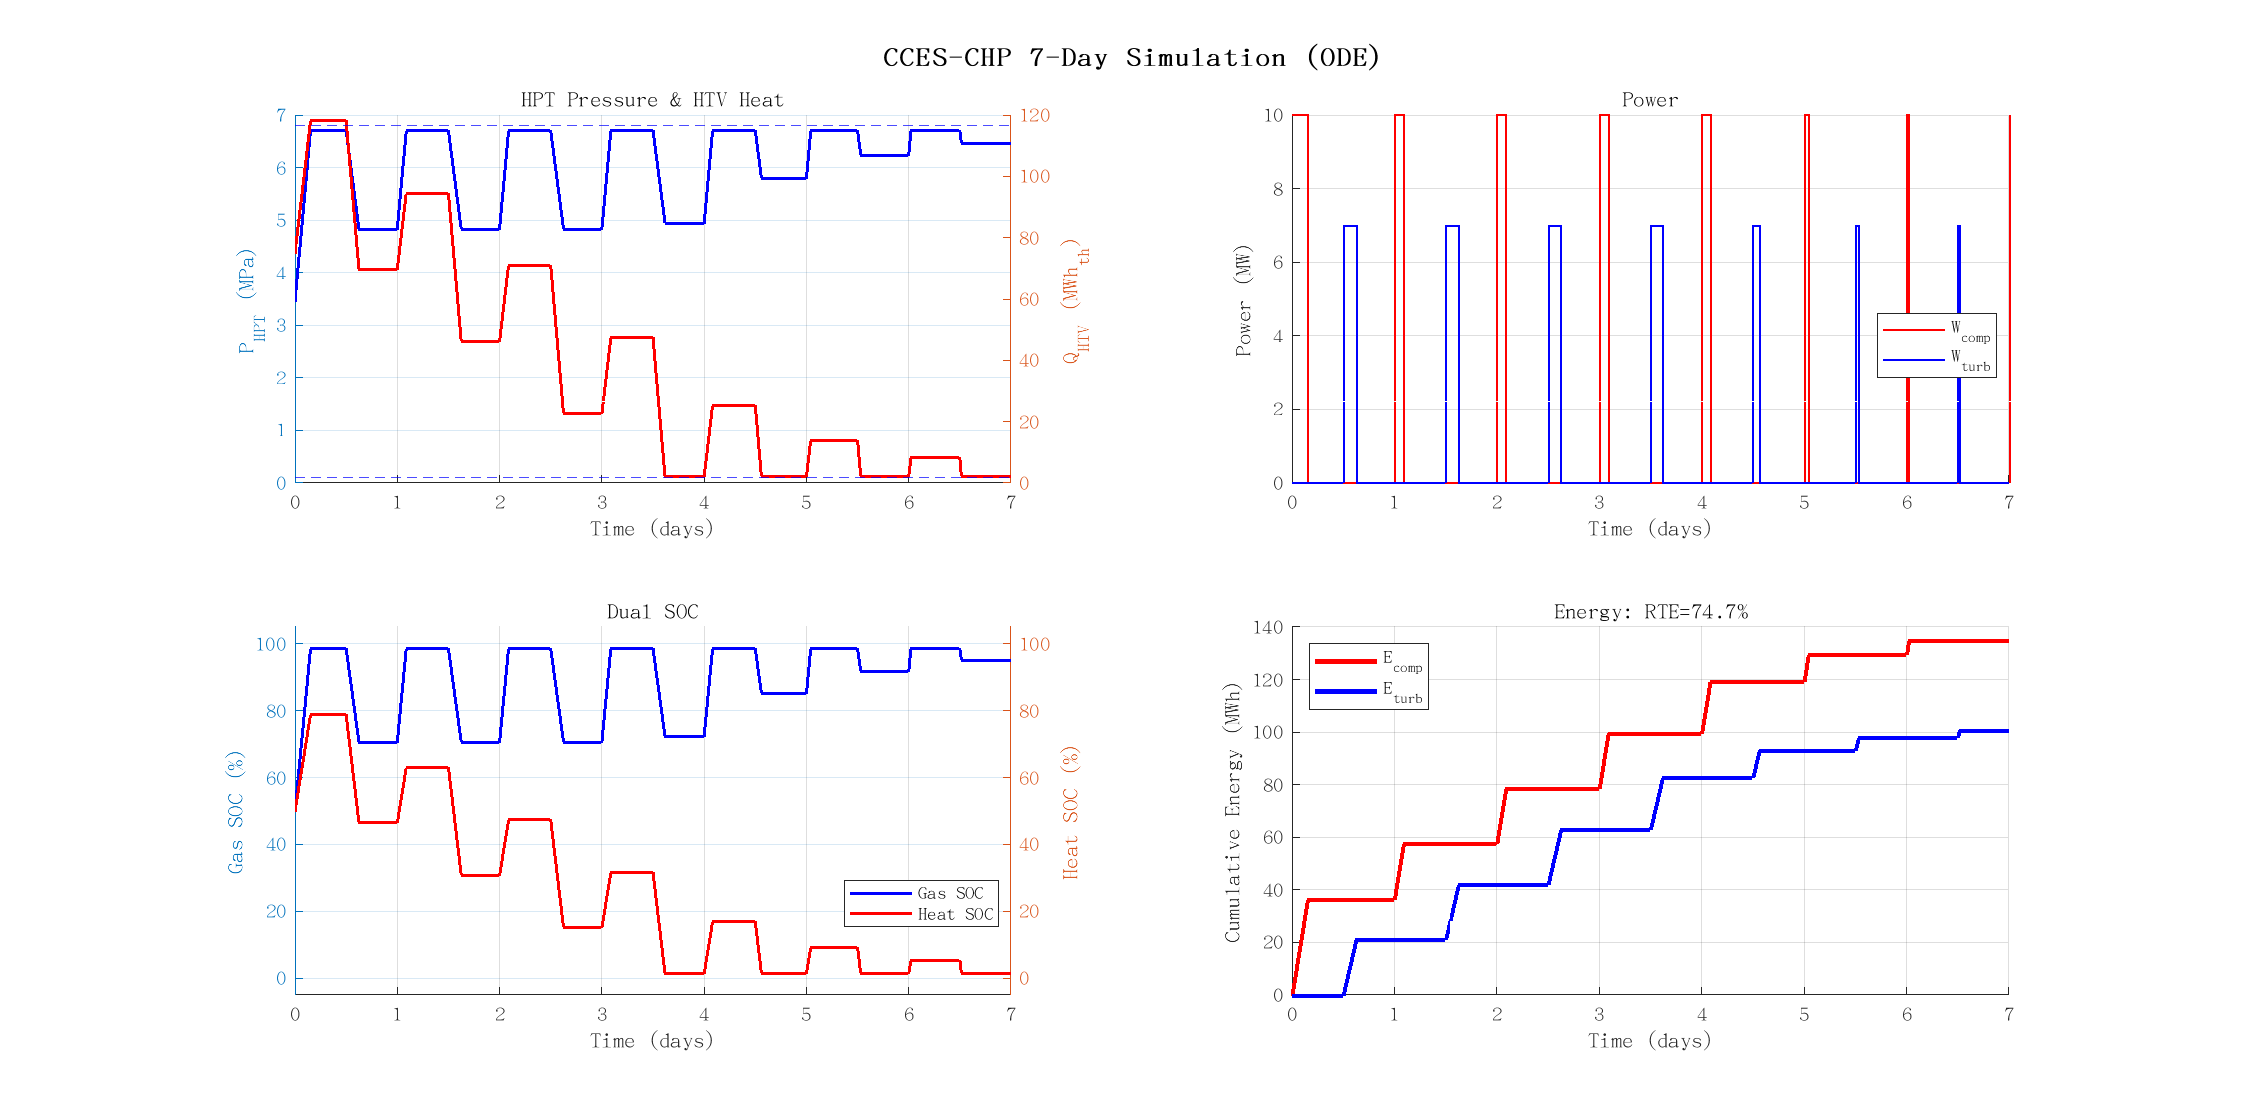
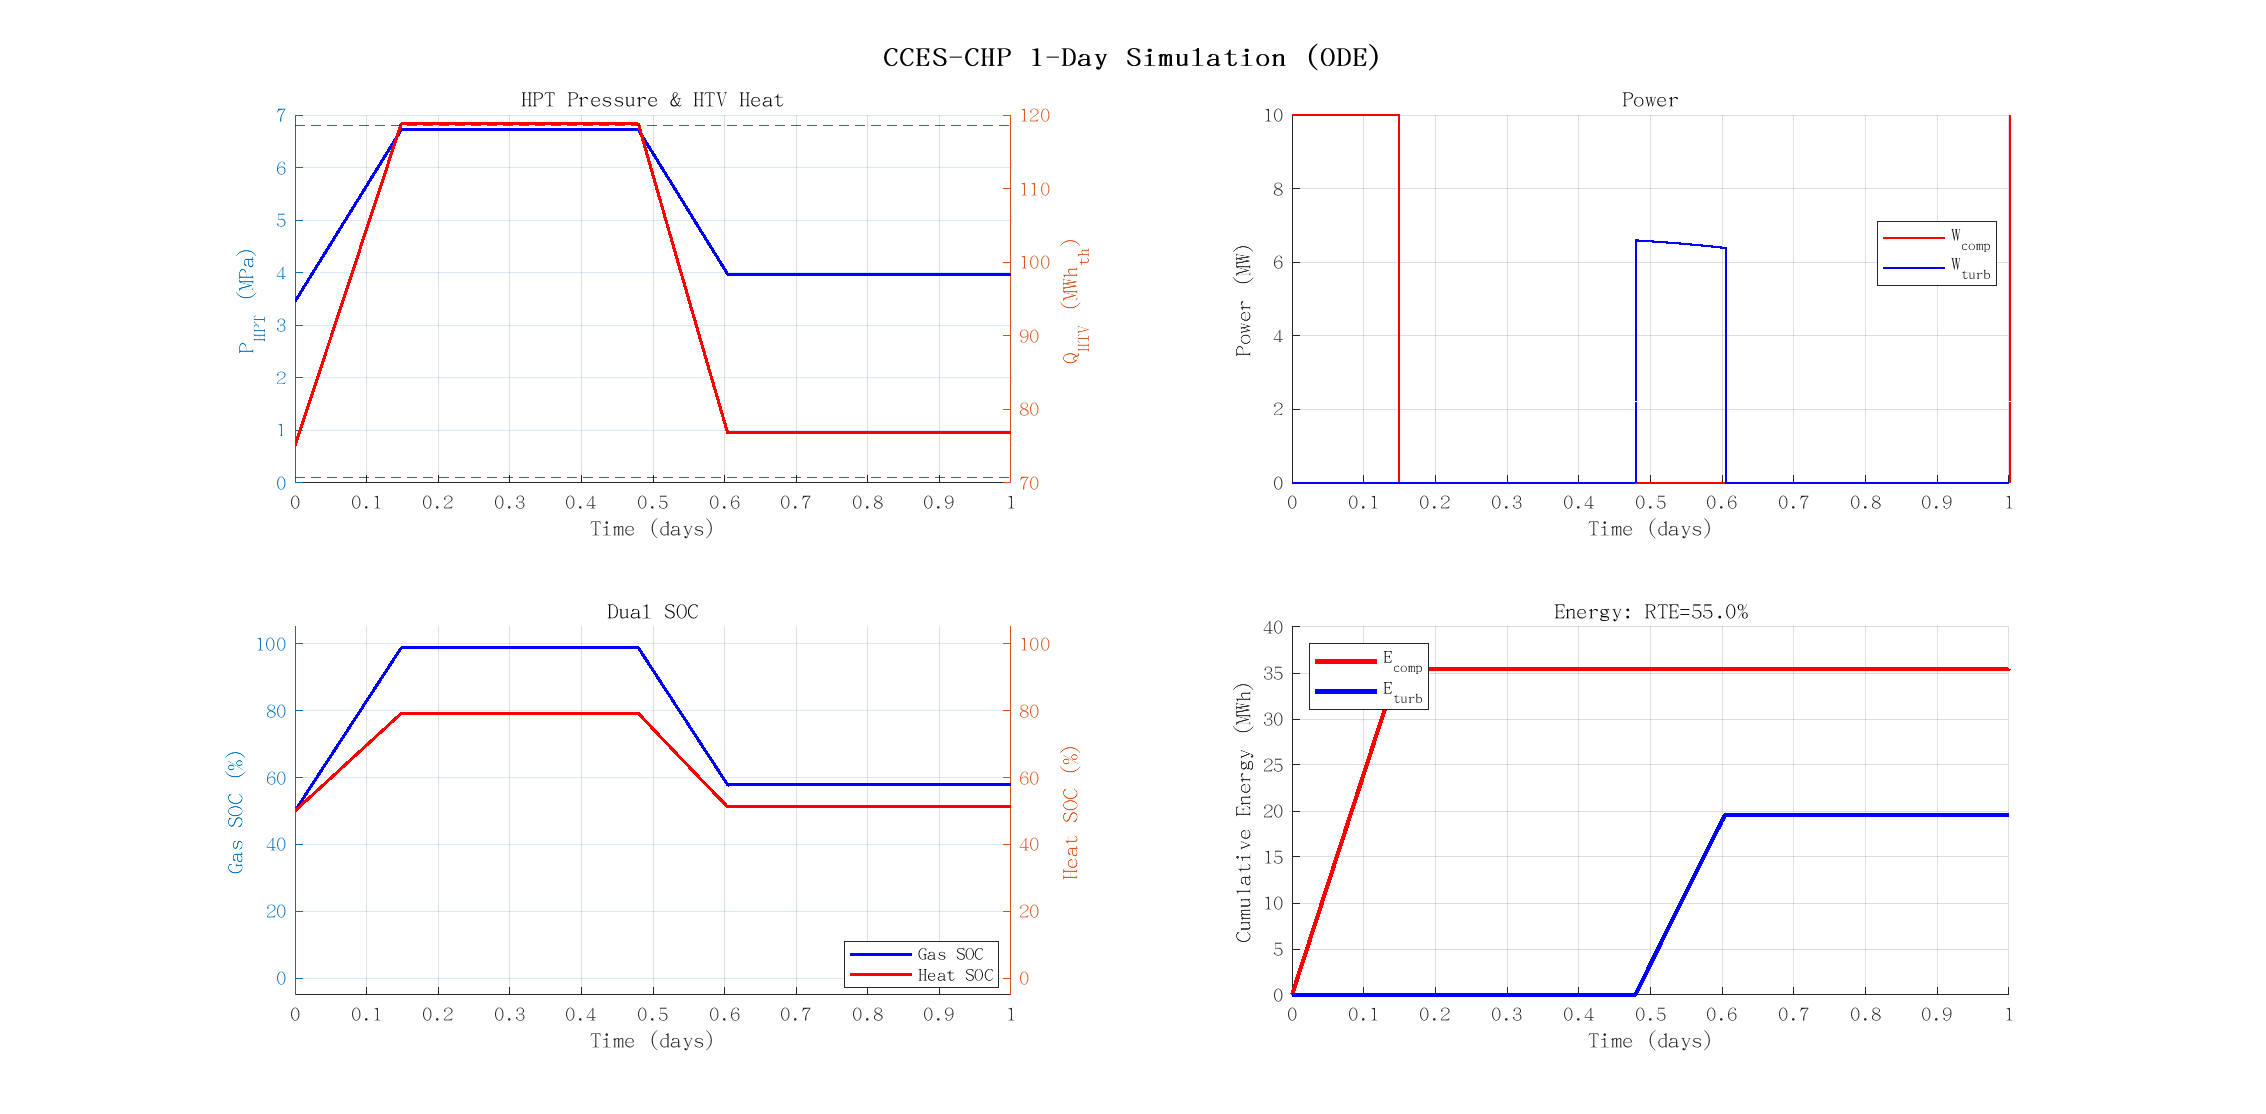
feat: replace alpha/beta with getFluidProperty in ODE dynamics
ode_dynamics.m now calls REFPROP at each step:
- Compressor chain: H(T,P), S(T,P), isentropic efficiency 0.85
- Turbine chain: both T1 and T2 preheated to T_heat(Q), eta=0.88
- Per-kg RTE=70.8% at full heat (483K), system RTE=55% with constraints
- Charge per-kg cached (persistent), discharge computed each step

diff --git a/CCES_CHP_Simulink/src/ode/ode_dynamics.m b/CCES_CHP_Simulink/src/ode/ode_dynamics.m
@@ -1,44 +1,112 @@
 function [dx, W_comp, Q_IC, W_turb, Q_HR, T_heat, mode] = ode_dynamics(t, x)
-    m_HPT = x(1);  Q_HTV = x(2);
-    P_MPa = m_HPT * 188.9 * 298 / 6228 / 1e6;
+% REFPROP-based ODE: 每步精确计算物性
+% x(1)=m_HPT [kg], x(2)=Q_HTV [MJ]
+persistent lib Fluid
 
-    % 调度
-    t_h = mod(t/3600, 24);
-    if t_h >= 0 && t_h < 7.5
-        mode = 1;
-    elseif t_h >= 12 && t_h < 15
-        mode = -1;
-    else
-        mode = 0;
+if isempty(lib)
+    lib = '/opt/refprop/';  Fluid = 'CO2';
+end
+
+m_HPT = x(1);  Q_HTV_MJ = x(2);
+T_tank = 298;  % 简化: 恒温 (已讨论过无漂移)
+P_MPa = m_HPT * 188.9 * T_tank / 6228 / 1e6;
+
+% 调度
+t_h = mod(t/3600, 24);
+if t_h < 7.5;       mode = 1;
+elseif t_h < 11.5;   mode = 0;  % 闲置 (含4h充放间隔)
+elseif t_h < 14.5;   mode = -1; % 放电3h (11.5-14.5)
+else;                mode = 0;
+end
+
+% 约束
+Q_MWh = max(0, Q_HTV_MJ/3600);
+P_ok_ch  = P_MPa < 6.70;
+P_ok_dis = P_MPa > 0.22;
+Q_ok_ch  = Q_MWh < 148;
+Q_ok_dis = Q_MWh > 2;
+T_heat = 298 + 185 * Q_MWh / (Q_MWh + 20);
+
+W_design = 10;  % MW
+
+if mode == 1 && P_ok_ch && Q_ok_ch
+    % ===== 充电: 压缩链 C1→IC1→C2→IC2→LHE =====
+    [w_comp_kJ, q_IC_kJ] = charge_per_kg(lib, Fluid);
+    m_dot = W_design * 1e6 / (w_comp_kJ * 1000);  % kg/s
+    dm_HPT = m_dot;
+    dQ_HTV = q_IC_kJ * m_dot / 1000;  % MJ/s = MW_th
+    W_comp = W_design;  Q_IC = q_IC_kJ * m_dot / 1000;
+    W_turb = 0;  Q_HR = 0;
+
+elseif mode == -1 && P_ok_dis && Q_ok_dis
+    % ===== 放电: 膨胀链 T1→Heater→T2 =====
+    [w_turb_kJ, q_HR_kJ] = discharge_per_kg(lib, Fluid, T_tank, T_heat);
+    W_T = W_design * w_turb_kJ / charge_per_kg(lib, Fluid); % 等质量流量功率
+    m_dot = W_T * 1e6 / (w_turb_kJ * 1000);
+    dm_HPT = -m_dot;
+    dQ_HTV = -q_HR_kJ * m_dot / 1000;
+    W_comp = 0;  Q_IC = 0;
+    W_turb = W_T;  Q_HR = q_HR_kJ * m_dot / 1000;
+
+else
+    dm_HPT = 0;  dQ_HTV = 0;
+    W_comp = 0;  Q_IC = 0;  W_turb = 0;  Q_HR = 0;
+end
+
+dx = [dm_HPT; dQ_HTV];
+end
+
+%% 充电: 返回 [压缩机总功 kJ/kg, IC回收热 kJ/kg]
+function [w_comp, q_IC] = charge_per_kg(lib, Fluid)
+    persistent w_cached q_cached
+    if isempty(w_cached)
+        eta_c = 0.85;
+        h1  = getFP(lib, 'H', 'T', 298, 'P', 0.102e6, Fluid);
+        s1  = getFP(lib, 'S', 'T', 298, 'P', 0.102e6, Fluid);
+        h2is= getFP(lib, 'H', 'P', 0.90e6, 'S', s1, Fluid);
+        h2  = h1 + (h2is - h1) / eta_c;
+        w_c1 = (h2 - h1) / 1000;  % kJ/kg
+        h3  = getFP(lib, 'H', 'T', 308, 'P', 0.85e6, Fluid);
+        q_ic1 = (h2 - h3) / 1000;
+        s3  = getFP(lib, 'S', 'T', 308, 'P', 0.85e6, Fluid);
+        h4is= getFP(lib, 'H', 'P', 6.90e6, 'S', s3, Fluid);
+        h4  = h3 + (h4is - h3) / eta_c;
+        w_c2 = (h4 - h3) / 1000;
+        h5  = getFP(lib, 'H', 'T', 309, 'P', 6.85e6, Fluid);
+        q_ic2 = (h4 - h5) / 1000;
+        w_cached = w_c1 + w_c2;
+        q_cached = q_ic1 + q_ic2;
     end
+    w_comp = w_cached;  q_IC = q_cached;
+end
 
-    % 约束
-    P_ok_ch  = P_MPa < 6.70;
-    P_ok_dis = P_MPa > 0.22;
-    Q_MWh = max(0, Q_HTV/3600);
-    Q_ok_ch  = Q_MWh < 148;
-    Q_ok_dis = Q_MWh > 2;
+%% 放电: 返回 [透平总功 kJ/kg, 回热消耗 kJ/kg]
+function [w_turb, q_HR] = discharge_per_kg(lib, Fluid, T_tank, T_heat)
+    eta_t = 0.88;
+    % EHE+HR1: T_tank → T_heat (加热到483K或Q-dependent)
+    h_hpt  = getFP(lib, 'H', 'T', T_tank, 'P', 6.65e6, Fluid);
+    h_t1in = getFP(lib, 'H', 'T', T_heat, 'P', 6.50e6, Fluid);
+    q_preheat = (h_t1in - h_hpt) / 1000;
+    % T1: T_heat, 6.50 MPa → 0.70 MPa
+    s1  = getFP(lib, 'S', 'T', T_heat, 'P', 6.50e6, Fluid);
+    h1is= getFP(lib, 'H', 'P', 0.70e6, 'S', s1, Fluid);
+    h1out = h_t1in - eta_t * (h_t1in - h1is);
+    w_t1 = (h_t1in - h1out) / 1000;
+    % HR2: T1out → T_heat (再热)
+    h_t2in = getFP(lib, 'H', 'T', T_heat, 'P', 0.65e6, Fluid);
+    q_reheat = (h_t2in - h1out) / 1000;
+    % T2: T_heat, 0.65 MPa → 0.12 MPa
+    s2  = getFP(lib, 'S', 'T', T_heat, 'P', 0.65e6, Fluid);
+    h2is= getFP(lib, 'H', 'P', 0.12e6, 'S', s2, Fluid);
+    h2out = h_t2in - eta_t * (h_t2in - h2is);
+    w_t2 = (h_t2in - h2out) / 1000;
+    w_turb = w_t1 + w_t2;
+    q_HR = q_preheat + q_reheat;
+end
 
-    T_heat = 298 + 185 * Q_MWh / (Q_MWh + 20);
-    W_design = 10;
-    alpha = 2.744;
-    beta1 = 1.185;
-    beta2 = 2.307;
-
-    if mode == 1 && P_ok_ch && Q_ok_ch
-        m_dot = alpha * W_design;
-        dm_HPT = m_dot;  dQ_HTV = beta1 * W_design;
-        W_comp = W_design;  Q_IC = beta1 * W_design;
-        W_turb = 0;         Q_HR = 0;
-    elseif mode == -1 && P_ok_dis && Q_ok_dis
-        W_T = W_design * 0.70;  % 热力学效率
-        m_dot = alpha * W_T;
-        dm_HPT = -m_dot;  dQ_HTV = -beta2 * W_T;
-        W_comp = 0;  Q_IC = 0;
-        W_turb = W_T;  Q_HR = beta2 * W_T;
-    else
-        dm_HPT = 0;  dQ_HTV = 0;
-        W_comp = 0;  Q_IC = 0;  W_turb = 0;  Q_HR = 0;
-    end
-    dx = [dm_HPT; dQ_HTV];
+%% 封装 getFluidProperty (自动补全 mass=1, molar=0, 'MASS BASE SI')
+function val = getFP(lib, prop, varargin)
+    % varargin = {spec1, val1, spec2, val2, fluid}
+    args = [varargin, {1, 1, 'MASS BASE SI'}];
+    val = getFluidProperty(lib, prop, args{:});
 end

diff --git a/CCES_CHP_Simulink/src/ode/run_ode_simulation.m b/CCES_CHP_Simulink/src/ode/run_ode_simulation.m
@@ -5,6 +5,8 @@
 clc; clear; close all;
 addpath('/home/lab206/code/CO2_energy_storage/CCES_CHP_Simulink/src')
 addpath('/home/lab206/code/CO2_energy_storage/CCES_CHP_Simulink/src/ode')
+addpath('/home/lab206/code/Matlab/matlab-interface-refprop-coolprop-main/toolbox')
+addpath('/home/lab206/code/Matlab/matlab-interface-refprop-coolprop-main/toolbox/internal')
 
 %% 参数
 V_HPT = 6228;  Rg = 188.9;  T_amb = 298;
@@ -19,10 +21,10 @@ m_HPT_0 = 0.5 * (m_min + m_max);
 x0 = [m_HPT_0; Q_init];
 
 %% 仿真
-dt = 60;  t_sim = 7 * 86400;  tspan = 0:dt:t_sim;
-fprintf('CCES-CHP ODE仿真 (7天): 充电7.5h, 放电3h\n');
+dt = 60;  t_sim = 1 * 86400;  tspan = 0:dt:t_sim;
+fprintf('CCES-CHP ODE仿真 (1天, REFPROP): 充电7.5h, 放电3h\n');
 
-opts = odeset('RelTol', 1e-6, 'MaxStep', 120);
+opts = odeset('RelTol', 1e-4, 'MaxStep', 300);
 [t, x] = ode45(@ode_dynamics, tspan, x0, opts);
 
 %% 后处理
